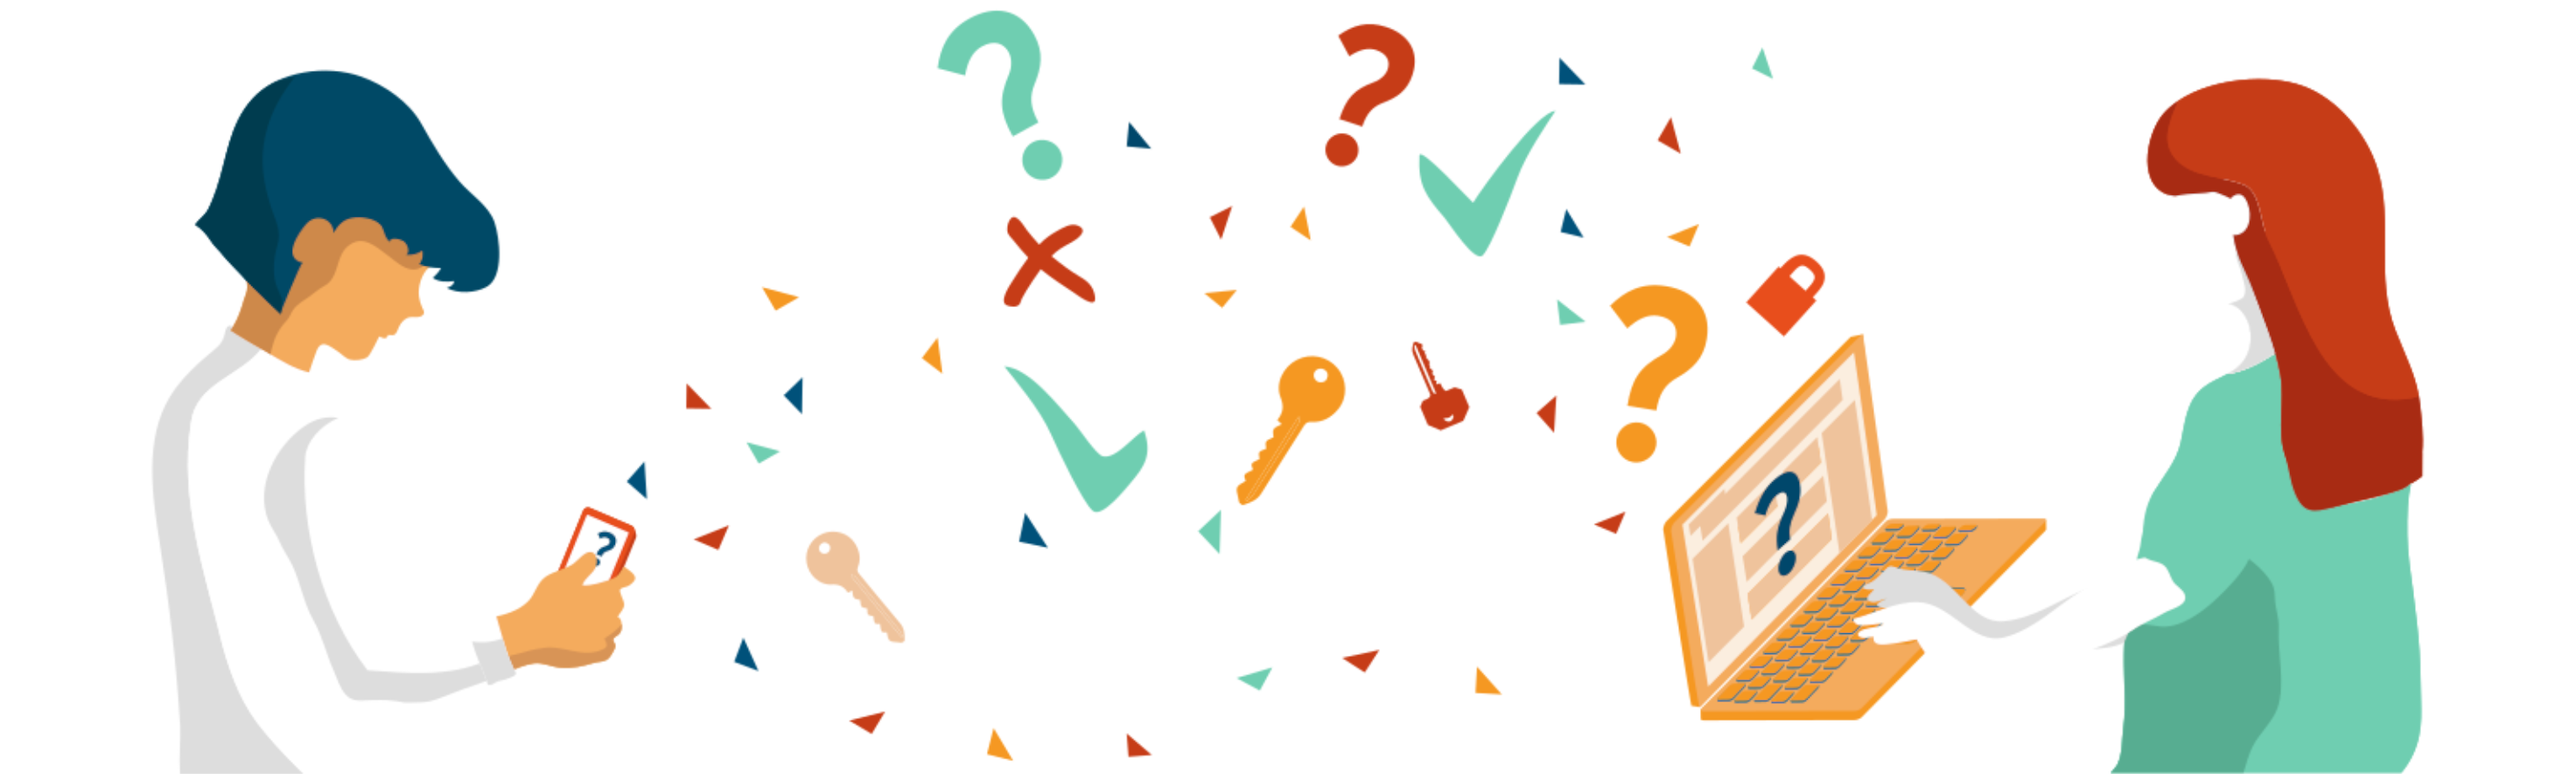
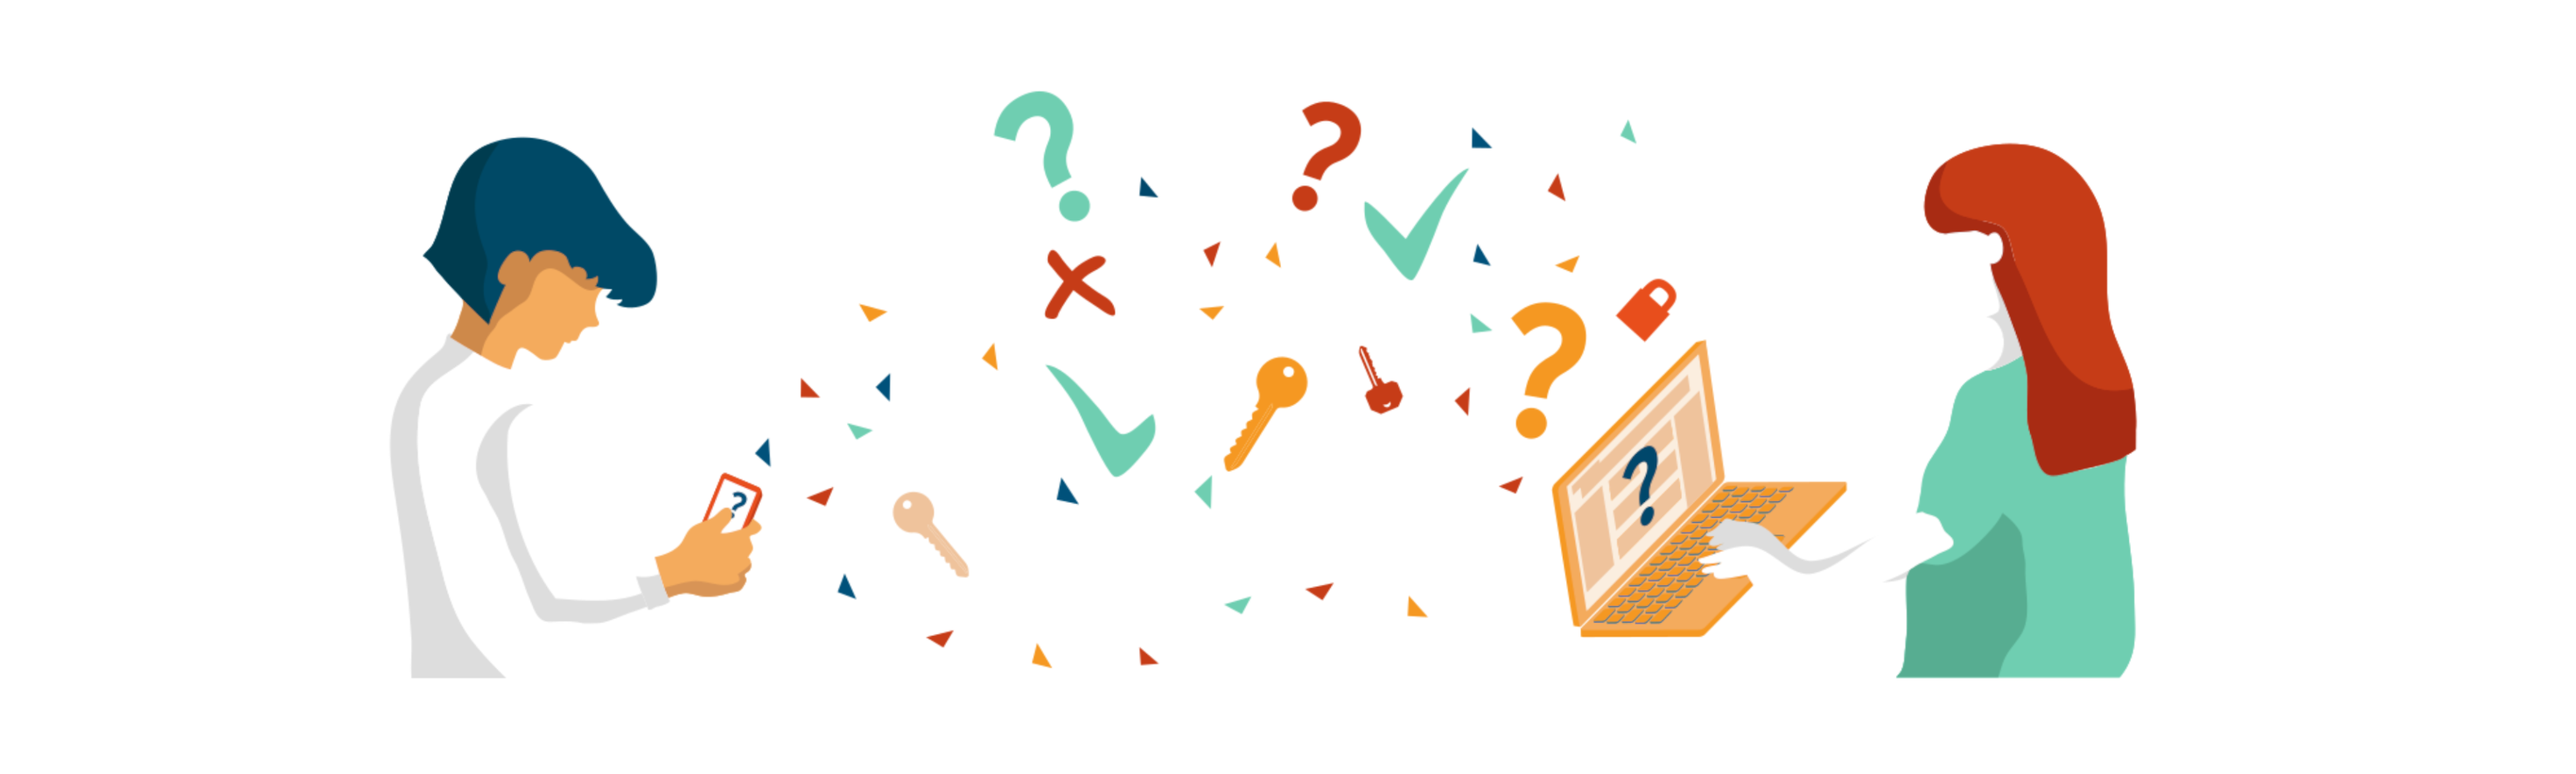
Image Update
Cookie

diff --git a/SEQUOIA Foundation/style.css b/SEQUOIA Foundation/style.css
@@ -15,6 +15,7 @@
     --span-text-second:#679F5A;
     --comments-text: #808080;
     --color-hover: #454545;
+    --image-background: #262e13;
 }
 
 .lightmode {
@@ -29,6 +30,7 @@
     --span-text-second:#679F5A;
     --comments-text: #454545;
     --color-hover: #6a8626;
+    --image-background: #f9ecdb;
 }
 
 body {
@@ -39,7 +41,7 @@ body {
     background-color: var(--base-color);
     color: var(--text-color);
     transition: all 0.3s ease-out;
-    margin-top: 50px;
+    margin-top: 45px;
 }
 
 
@@ -224,20 +226,22 @@ body {
 main {
     display: flex;
     flex-direction: column;
-    margin: auto;
+    margin: 0;
+}
+main .title {
+    padding: 10px;
+    margin-top: 25px;
 }
 h1 {
-    padding: 10px;
     color: var(--span-text);
     text-align: center;
     font-size: 2.7em;
-    margin-top: 25px;
 }
-h2 {
+main h2 {
     padding: 10px;
     color: var(--span-text);
     text-align: center;
-    font-size: 2em;
+    font-size: 1.7em;
     margin-top: 25px;
 }
 main p {
@@ -264,7 +268,8 @@ main .content {
     max-width: 100%;
     max-height: 500px;
     aspect-ratio: 16 / 9;
-    object-fit: cover;
+    object-fit: contain;
+    background-color: var(--image-background);
 }
 .img_contenu_page{
     display: flex;
@@ -273,7 +278,8 @@ main .content {
     max-height: 400px;
     aspect-ratio: 16 / 9;
     object-fit: contain;
-    margin: 30px;
+    padding: 10px;
+    background-color: var(--image-background);
 
 }
 .redirect{

diff --git a/SEQUOIA Foundation/nav/unifier.html b/SEQUOIA Foundation/nav/unifier.html
@@ -51,6 +51,7 @@
         </nav>
     </header>
     <main>
+        <img class="img_contenu_page" src="../Images/Uni_numerique.webp" alt="Des personnes s'unissent">
         <div class="content">
             <h1>Lorem Ipsum</h1>
             <p>Lorem ipsum dolor sit amet, consectetur adipiscing elit. Sed non risus. Suspendisse lectus tortor, dignissim sit amet, adipiscing nec, ultricies sed, dolor. Cras elementum ultrices diam. Maecenas ligula massa, varius a, semper congue, euismod non, mi. Proin porttitor, orci nec nonummy molestie, enim est eleifend mi, non fermentum diam nisl sit amet erat. Duis semper. Duis arcu massa, scelerisque vitae, consequat in, pretium a, enim. Pellentesque congue. Ut in risus volutpat libero pharetra tempor. Cras vestibulum bibendum augue. Praesent egestas leo in pede. Praesent blandit odio eu enim. Pellentesque sed dui ut augue blandit sodales. Vestibulum ante ipsum primis in faucibus orci luctus et ultrices posuere cubilia Curae; Aliquam nibh. Mauris ac mauris sed pede pellentesque fermentum. Maecenas adipiscing ante non diam sodales hendrerit.

diff --git a/SEQUOIA Foundation/nav/sensibiliser.html b/SEQUOIA Foundation/nav/sensibiliser.html
@@ -51,6 +51,7 @@
         </nav>
     </header>
     <main>
+        <img class="img_contenu_page" src="../Images/Sensi_numerique.webp" alt="Sensibilisation au numérique">
         <div class="title">
             <h1>Quel est l’impact environnemental du digital ?</h1>
             <h1>D’où vient la pollution numérique ?</h1>
